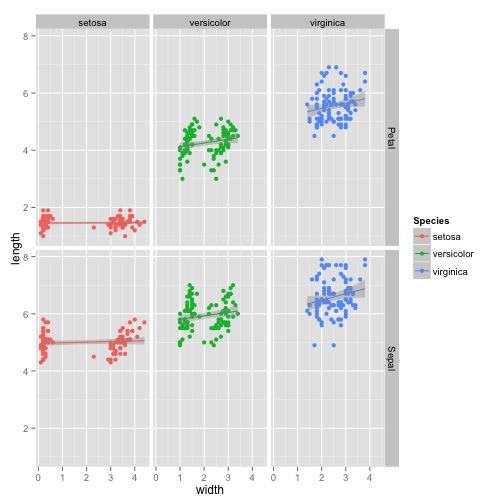
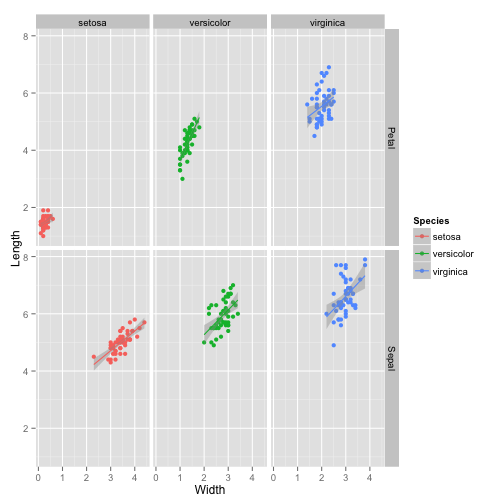
Add a few more examples

diff --git a/Advanced_graphics_in_R.md b/Advanced_graphics_in_R.md
@@ -6,7 +6,7 @@ transition: none
 font-family: 'Helvetica'
 css: my_style.css
 author: Raphael Gottardo, PhD
-date: January 06, 2014
+date: January 07, 2014
 
 <a rel="license" href="http://creativecommons.org/licenses/by-sa/3.0/deed.en_US"><img alt="Creative Commons License" style="border-width:0" src="http://i.creativecommons.org/l/by-sa/3.0/88x31.png" /></a><br /><tiny>This work is licensed under a <a rel="license" href="http://creativecommons.org/licenses/by-sa/3.0/deed.en_US">Creative Commons Attribution-ShareAlike 3.0 Unported License</tiny></a>.
 
@@ -40,6 +40,7 @@ Graphics in R
 Generic function for plotting of objects in R is `plot`. The output will vary depending on the object type (e.g. scatter-plot, pair-plot, etc)
 
 ```r
+# Load the Iris data
 data(iris)
 plot(iris)
 ```
@@ -234,7 +235,7 @@ Reshaping your data with reshape2
 ===================
 
 It is often necessary to reshape (e.g. pivot) your data before analysis. This can easily be done in R using the `reshape2` package.
-This package provides two mains functions `melt` and `cast`. `melt` basically "melts" a dataframe in wide format into a long format. `cast` goes in the other direction.
+This package provides main functions `melt` and `cast`. `melt` basically "melts" a dataframe in wide format into a long format. `cast` goes in the other direction.
 
 Let's revisite our `iris` dataset.
 
@@ -261,7 +262,7 @@ We can see in the data above that we are measuring both width and length on two 
 reshape2 - melt
 ==============
 
-The `melt` function provides some good default option that will try to best guess how to "melt" the data.
+The `melt` function provides some good default options that will try to best guess how to "melt" the data.
 
 
 ```r
@@ -282,54 +283,28 @@ head(iris_melted)
 6  setosa         6 Sepal.Length   5.4
 ```
 
-but this is not quite what we want, let's try:
-
-```r
-# Let's customize some options
-iris_melted <- melt(iris, measure.vars=c(1, 3), value.name="length")
-iris_melted <- melt(iris_melted, measure.vars=c(1, 2), value.name="width")
-head(iris_melted)
-```
-
-```
-  Species flower_id     variable length    variable width
-1  setosa         1 Sepal.Length    5.1 Sepal.Width   3.5
-2  setosa         2 Sepal.Length    4.9 Sepal.Width   3.0
-3  setosa         3 Sepal.Length    4.7 Sepal.Width   3.2
-4  setosa         4 Sepal.Length    4.6 Sepal.Width   3.1
-5  setosa         5 Sepal.Length    5.0 Sepal.Width   3.6
-6  setosa         6 Sepal.Length    5.4 Sepal.Width   3.9
-```
-
-
-reshape2 - melt (suite)
-==============
-
-Now we can cleanup the output:
-
-
 ```r
 # We first split that variable to get the columns we need
 split_variable <- strsplit(as.character(iris_melted$variable),split="\\.")
 # Create two new variables
 iris_melted$flower_part <- sapply(split_variable, "[", 1)
-# Remove the columns we don't need
+iris_melted$measurement_type <- sapply(split_variable, "[", 2)
+# Remove the one we don't need anymore
 iris_melted$variable <- NULL
-iris_melted$variable <- NULL
-
 head(iris_melted)
 ```
 
 ```
-  Species flower_id length width flower_part
-1  setosa         1    5.1   3.5       Sepal
-2  setosa         2    4.9   3.0       Sepal
-3  setosa         3    4.7   3.2       Sepal
-4  setosa         4    4.6   3.1       Sepal
-5  setosa         5    5.0   3.6       Sepal
-6  setosa         6    5.4   3.9       Sepal
+  Species flower_id value flower_part measurement_type
+1  setosa         1   5.1       Sepal           Length
+2  setosa         2   4.9       Sepal           Length
+3  setosa         3   4.7       Sepal           Length
+4  setosa         4   4.6       Sepal           Length
+5  setosa         5   5.0       Sepal           Length
+6  setosa         6   5.4       Sepal           Length
 ```
 
+This is close but not quite what we want, let's see if cast can help us do what we need.
 
 reshape2 - cast
 ===============
@@ -338,24 +313,25 @@ Use `acast` or `dcast` depending on whether you want vector/matrix/array output 
 
 
 
-
 ```r
-iris_cast <- dcast(iris_melted, formula=Species+flower_id~flower_part, value.var="width")
+iris_cast <- dcast(iris_melted, formula=flower_id+Species+flower_part~measurement_type)
 head(iris_cast)
 ```
 
 ```
-  Species flower_id Petal Sepal
-1  setosa         1     2     2
-2  setosa        10     2     2
-3  setosa        11     2     2
-4  setosa        12     2     2
-5  setosa        13     2     2
-6  setosa        14     2     2
+  flower_id    Species flower_part Length Width
+1         1     setosa       Petal    1.4   0.2
+2         1     setosa       Sepal    5.1   3.5
+3        10     setosa       Petal    1.5   0.1
+4        10     setosa       Sepal    4.9   3.1
+5       100 versicolor       Petal    4.1   1.3
+6       100 versicolor       Sepal    5.7   2.8
 ```
 
 
 **Q:** Why are the elements of `flower_id` not properly ordered?
+
+`melt` and `*cast` are very powerful. These can also be used on data.tables. More on this latter.
 
 **Exercise:** Try to reorder the variable names in the formula. What happens?
 
@@ -367,12 +343,74 @@ Using our long format dataframe, we can further explore the iris dataset.
 
 ```r
 # We can now facet by Species and Petal/Sepal
-qplot(x=width, y=length, data=iris_melted, geom=c("point","smooth"), color=Species, method="lm", facets= flower_part~Species)
+qplot(x=Width, y=Length, data=iris_cast, geom=c("point","smooth"), color=Species, method="lm", facets= flower_part~Species)
 ```
 
 ![plot of chunk multi-facet](Advanced_graphics_in_R-figure/multi-facet.png) 
 
 
+It would be nice to see if we can have free scales for the panels, but before we explore this, let's talk about the `ggplot` API as an alternative to qplot. Can we also customize the look and feel?
+
+
+ggplot2 and the grammar of graphics
+===================================
+
+`ggplot2` provides another API via the `ggplot` command. This directly the implements  the idea of a "grammar of graphics". 
+
+
+```r
+ggplot(data=iris_cast, aes(x=Width, y=Length))+
+  # Add points
+  geom_point()+facet_grid(Species~flower_part)+
+  # Add a regression line
+  geom_smooth(method="lm")+
+  # Use the black/white theme and increase the font size
+  theme_bw(base_size=24)
+```
+
+![plot of chunk ggplot-iris](Advanced_graphics_in_R-figure/ggplot-iris.png) 
+
+
+Note: the `ggplot` API requires the use of a dataframe. Many different layers can be added to obtain the desired results. Different data can be used in the different layers.
+
+ggplot2 and the grammar of graphics (suite)
+===================================
+
+Let's try to map one of the variable to the shape
+
+
+```r
+my_plot <- ggplot(data=iris_cast, aes(x=Width, y=Length, shape=flower_part, color=flower_part))+
+  # Add points
+  geom_point()+facet_grid(~Species)+ geom_smooth(method="lm")
+my_plot
+```
+
+![plot of chunk ggplot-iris-suite](Advanced_graphics_in_R-figure/ggplot-iris-suite.png) 
+
+
+**Exercise:** Your turn to try. Try to facet by `flower_part` and use Species as an aesthetic variable.
+
+Having some fun with ggplot2
+===================================
+
+
+```r
+library(ggthemes)
+my_plot+theme_excel(base_size=24)
+```
+
+![plot of chunk ggthemes](Advanced_graphics_in_R-figure/ggthemes.png) 
+
+
+-----------------------------
+
+
+```r
+my_plot+theme_wsj(base_size=18)
+```
+
+![plot of chunk ggthemes2](Advanced_graphics_in_R-figure/ggthemes2.png) 
 
 
 References

diff --git a/Introduction_to_R.md b/Introduction_to_R.md
@@ -817,7 +817,7 @@ y[1:10]
 ```
 
 ```
- [1] 2.885 3.267 3.216 3.037 3.190 3.134 3.457 3.192 3.003 3.332
+ [1] 3.089 3.230 3.307 3.537 3.347 3.211 2.821 3.157 2.946 2.969
 ```
 
 ```r
@@ -833,7 +833,7 @@ y[1:10]
 ```
 
 ```
- [1] 2.885 3.267 3.216 3.037 3.190 3.134 3.457 3.192 3.003 3.332
+ [1] 3.089 3.230 3.307 3.537 3.347 3.211 2.821 3.157 2.946 2.969
 ```
 
 
@@ -886,12 +886,12 @@ microbenchmark(for(i in 1:n) y[i] <- sqrt(x[i]), sqrt(x), times=10)
 
 ```
 Unit: microseconds
-                              expr   min       lq   median      uq     max
- for (i in 1:n) y[i] <- sqrt(x[i]) 14972 15112.46 16364.22 16596.7 19582.7
-                           sqrt(x)    44    51.53    75.31    84.6   107.1
- neval
-    10
-    10
+                              expr      min       lq   median      uq
+ for (i in 1:n) y[i] <- sqrt(x[i]) 15105.74 15137.55 16672.44 16908.3
+                           sqrt(x)    43.03    43.61    45.96    69.4
+      max neval
+ 18396.35    10
+    79.24    10
 ```
 
 
@@ -929,8 +929,8 @@ microbenchmark(for(i in 1:n) y[i] <- MySqrt(x[i]), sapply(x, MySqrt), times=10)
 ```
 Unit: milliseconds
                                 expr    min    lq median    uq   max neval
- for (i in 1:n) y[i] <- MySqrt(x[i]) 108.13 117.1  119.1 122.6 133.1    10
-                   sapply(x, MySqrt)  99.74 101.4  106.5 107.6 125.9    10
+ for (i in 1:n) y[i] <- MySqrt(x[i]) 108.95 111.5  116.6 122.1 124.4    10
+                   sapply(x, MySqrt)  97.81 102.6  106.1 110.4 138.4    10
 ```
 
 
